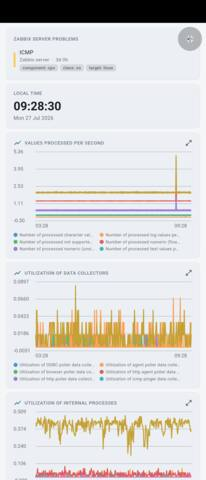
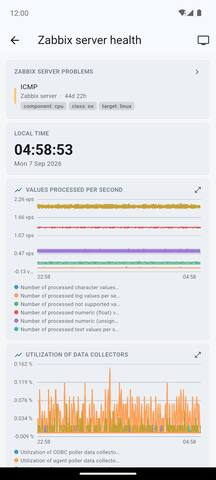
web: refresh gallery with the new emulator screenshots
Replace the phone and TV shots with a freshly captured set (English UI,
demo data from the NaxServer test Zabbix) and add the first Wear OS shots:

- phone (12): overview, problems, problem detail, host detail, Global view,
  geomap, server health, brewery, graph, latest data, dashboards, server list
- TV (13): the same journey plus the full-screen topology map
- watch (4): overview, problem list, detail, quick actions
- hero now shows the current overview shot instead of the old one

Gallery behaviour: keep a single device on stage and cross-fade only the
screenshot inside it, so the frame no longer flickers or reflows on every
rotation — and make the frames noticeably larger now that only one is shown.

diff --git a/index.html b/index.html
@@ -56,7 +56,7 @@
       <!-- phone: real ZbxView screenshot (shot26); the ad banner + Android nav
            bar at the bottom are cropped off via the screen's aspect ratio. -->
       <figure class="frame frame-phone hero-phone" aria-hidden="true">
-        <div class="frame-screen"><img src="assets/shot26_mobile.png" alt="ZbxView na telefonu" draggable="false"></div>
+        <div class="frame-screen"><img src="assets/shot17_mobile.jpg" alt="ZbxView na telefonu" draggable="false"></div>
       </figure>
     </div>
   </section>
@@ -892,15 +892,27 @@
       function stopAuto() { if (timer) { clearInterval(timer); timer = null; } }
       function startAuto() { stopAuto(); if (!reduce && cur.imgs.length > 1) timer = setInterval(function () { go(idx + 1); }, 4000); }
 
-      var VISIBLE = 3; // how many previews to show side by side
+      // One device stays on stage; rotating only swaps the screenshot inside it,
+      // so the frame never flickers or jumps (same feel across TV/phone/tablet/watch).
       function renderFrame() {
-        var n = Math.min(VISIBLE, cur.imgs.length);
-        var html = '';
-        for (var k = 0; k < n; k++) {
-          var j = (idx + k) % cur.imgs.length;
-          html += frameHTML(cur.frame, cur.imgs[j].thumb, 'ZbxView ' + L(cur) + ' ' + (j + 1), j);
-        }
-        stage.innerHTML = html;
+        stage.innerHTML = frameHTML(cur.frame, cur.imgs[idx].thumb,
+                                    'ZbxView ' + L(cur) + ' ' + (idx + 1), idx);
+      }
+      // Preload the next shot, then cross-fade it in inside the existing frame.
+      function swapShot() {
+        var img = stage.querySelector('.frame-screen img');
+        if (!img) { renderFrame(); return; }
+        var next = cur.imgs[idx], pre = new Image();
+        pre.onload = pre.onerror = function () {
+          img.classList.add('swapping');
+          setTimeout(function () {
+            img.src = next.thumb;
+            img.dataset.i = idx;
+            img.alt = 'ZbxView ' + L(cur) + ' ' + (idx + 1);
+            img.classList.remove('swapping');
+          }, 180);
+        };
+        pre.src = next.thumb;
       }
       function renderDots() {
         dotsEl.innerHTML = cur.imgs.map(function (_, i) {
@@ -910,7 +922,7 @@
       }
       function go(n) {
         idx = (n + cur.imgs.length) % cur.imgs.length;
-        renderFrame();
+        swapShot();
         Array.prototype.forEach.call(dotsEl.children, function (d, i) {
           d.classList.toggle('active', i === idx);
         });

diff --git a/styles.css b/styles.css
@@ -164,11 +164,14 @@ section { padding: 72px 0; }
 @keyframes shotfade { from { opacity: 0; } to { opacity: 1; } }
 .frame { margin: 0; }
 .frame-screen { overflow: hidden; background: #000; }
-.frame-screen img { display: block; width: 100%; height: 100%; object-fit: cover; -webkit-user-drag: none; user-select: none; cursor: zoom-in; }
+.frame-screen img { display: block; width: 100%; height: 100%; object-fit: cover; -webkit-user-drag: none; user-select: none; cursor: zoom-in;
+  transition: opacity .18s ease; }
+/* rotation cross-fades the screenshot only — the device frame stays put */
+.frame-screen img.swapping { opacity: 0; }
 /* small preview sizes (click enlarges to full screen) */
-.car-stage .frame-phone { width: 148px; }
-.car-stage .frame-tablet { width: min(29vw, 300px); }
-.car-stage .frame-tv { width: min(29vw, 300px); }
+.car-stage .frame-phone { width: min(62vw, 270px); }
+.car-stage .frame-tablet { width: min(88vw, 620px); }
+.car-stage .frame-tv { width: min(88vw, 700px); }
 /* dots — click to jump between shots */
 .car-dots { display: flex; justify-content: center; gap: 8px; margin-top: 22px; flex-wrap: wrap; }
 .car-dots[hidden] { display: none; }
@@ -198,7 +201,7 @@ section { padding: 72px 0; }
 
 /* hero phone: real shot26 screenshot, anchored to the top so the bottom ~11%
    (AdMob banner + Android navigation bar) is cropped out of view. */
-.hero-phone { justify-self: center; width: 250px; }
+.hero-phone { justify-self: center; width: 290px; }
 .hero-phone .frame-screen { aspect-ratio: 1080 / 2250; }
 .hero-phone .frame-screen img { object-position: top; }
 
@@ -211,7 +214,7 @@ section { padding: 72px 0; }
 }
 .frame-watch .frame-screen { aspect-ratio: 1 / 1; border-radius: 50%; overflow: hidden; background: #000; }
 .frame-watch .frame-crown { position: absolute; right: -5px; top: 50%; transform: translateY(-50%); width: 6px; height: 26px; border-radius: 3px; background: #3a4552; }
-.car-stage .frame-watch { width: 190px; }
+.car-stage .frame-watch { width: min(62vw, 290px); }
 
 /* Wear OS note under the gallery */
 .wear-note { margin: 18px auto 0; max-width: 720px; text-align: center; color: var(--muted, #9aa7b6); font-size: 14px; line-height: 1.55; }

diff --git a/README.md b/README.md
@@ -10,15 +10,15 @@ Served via GitHub Pages: <https://radekpavlik.github.io/zbxview/>
 
 ## How to add screenshots
 Drop images in `assets/` named `shot<N>_<group>.<ext>`, where:
-- `<group>` = `tv` | `mobile` | `tablet` (the device tab it appears under),
+- `<group>` = `tv` | `mobile` | `tablet` | `watch` (the device tab it appears under),
 - `<ext>` = `jpg`, `png`, `jpeg` or `webp`,
 - `<N>` = any number up to 60; numbering may start anywhere and have gaps
   (shots are shown in numeric order).
 
-Examples: `shot1_tablet.jpg`, `shot17_mobile.png`, `shot1_tv.jpg`.
+Examples: `shot1_tablet.jpg`, `shot17_mobile.jpg`, `shot33_tv.jpg`, `shot46_watch.jpg`.
 
 The gallery auto-discovers them: it shows an environment tab (TV / Telefon /
-Tablet) **only** for groups that have at least one file, renders each shot in
+Tablet / Hodinky) **only** for groups that have at least one file, renders each shot in
 the matching device frame, supports grab-and-drag scrolling, and click-to-zoom
 (lightbox). No HTML editing needed — just add the files, commit and push.
 
